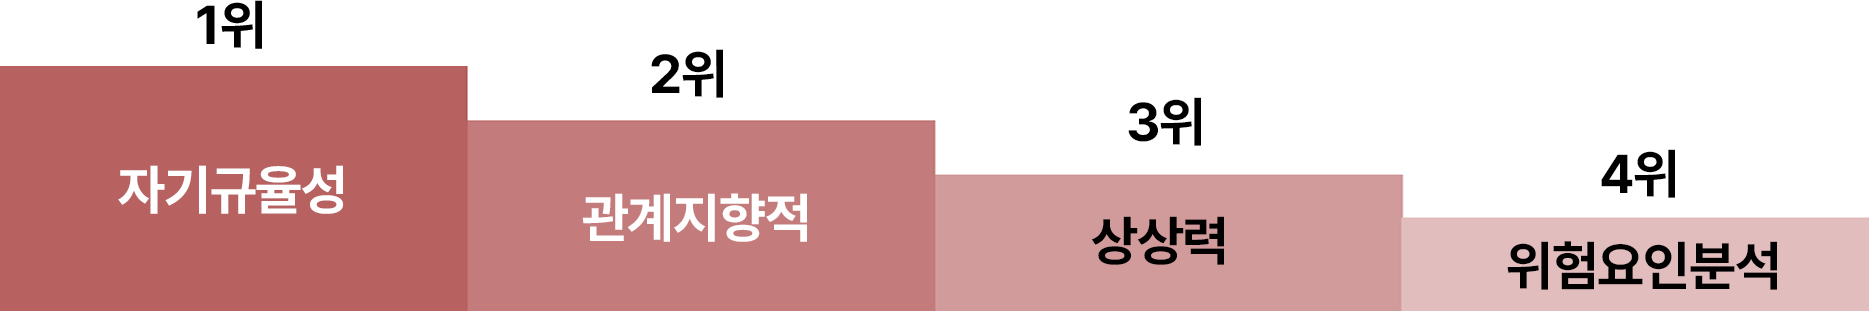
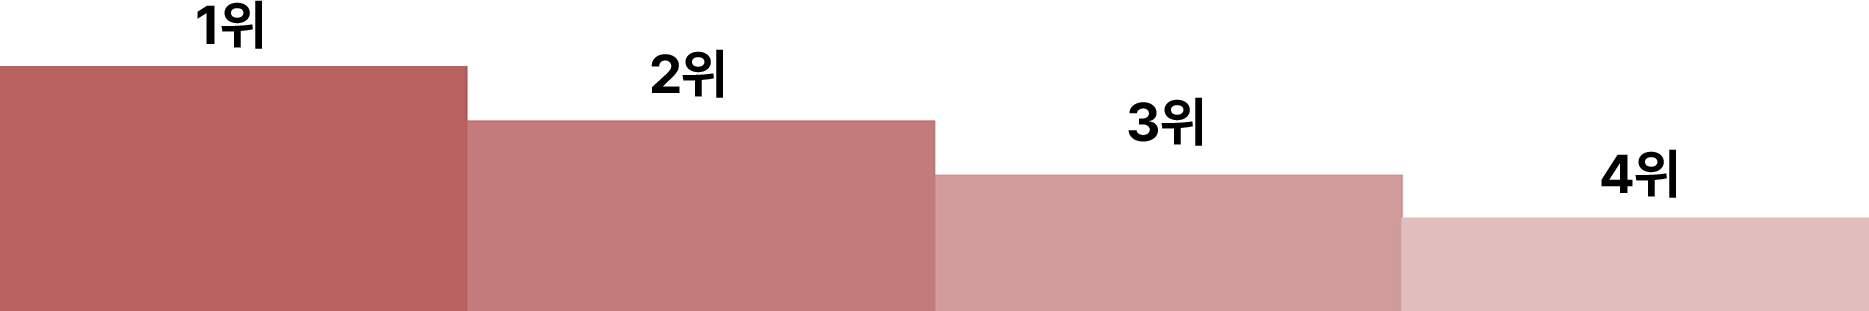
add text box

diff --git a/css/docs.css b/css/docs.css
@@ -134,13 +134,22 @@ table { border-collapse: collapse; border-spacing: 0; color:#000 }
 .pf-cont .pf-rank-tit { margin-left: 1cm; } 
 .pf-cont .pf-rank-tit p { font-size: 1.2rem; font-family: 'Pretendard'; } 
 .pf-cont .pf-rank-tit p:first-child { display: flex; align-items: flex-end; justify-content: space-between; margin-bottom: 0.2cm; } 
-.pf-cont .pf-rank-tit p:first-child span { width:2.22cm;border-bottom: 1px solid #111;margin-bottom: 0.08cm; } 
+/* 221127 text-align추가 */
+.pf-cont .pf-rank-tit p:first-child span { width:2.22cm;border-bottom: 1px solid #111;margin-bottom: 0.08cm;text-align: center; } 
 .pf-cont .pf-rank-ul { display:flex; align-items: center; gap:2.6cm; } 
-.pf-cont .pf-rank-ul li { list-style:none; width:0.88cm;height:1.28cm;} 
+/* 221127 li, div 수정 */
+.pf-cont .pf-rank-ul li { list-style:none; width:0.88cm;height:1.28cm;display:flex;align-items: center;flex-direction: row;} 
+.pf-cont .pf-rank-ul li div {text-align: center;width: 5rem;border: 0;font-size: 1.2rem;padding-left: 0.3cm;} 
 .pf-cont .pf-rank-ul li img { width: 100%;} 
 
 .pf-cont.quality { justify-content: center; } 
-.pf-cont .quality_rank { width:15.82cm; } 
+/*  221127 .quality_rank ~ */
+.pf-cont .quality_rank { width:15.82cm;height: 2.8cm; background: url(../img/quality_rank.png)no-repeat center/contain;display:flex;align-items: center;} 
+.pf-cont .quality_rank div { display:flex;align-items: center;justify-content: center;font-size: 1rem;font-weight: bold;} 
+.pf-cont .quality_rank div:nth-child(1) { width:4cm;height:2cm;margin-top: 0.6cm;color:#fff;} 
+.pf-cont .quality_rank div:nth-child(2) { width:4cm;height:1.5cm;margin-top: 1cm;color:#fff;} 
+.pf-cont .quality_rank div:nth-child(3) { width:4cm;height:1cm;margin-top: 1.5cm;} 
+.pf-cont .quality_rank div:nth-child(4) { width:4cm;height:0.6cm;margin-top: 1.8cm;} 
 .pf-cont .quality_rank img{ width:100%; } 
 
 
@@ -355,8 +364,12 @@ table.tbl04 td:first-child { font-weight:bold; font-family: 'Roboto', sans-serif
 #page_intro .intro_partner { position:absolute; top:21.13cm; left:1.69cm; display:flex; flex-direction: column; list-style-type:none; } 
 #page_intro .intro_partner li { display:flex; flex-direction:row;; font-size:1.6rem; font-weight:bold; padding-bottom:1.15cm; align-items: center; justify-content: space-between; } 
 #page_intro .intro_partner li .label { display:flex; flex-direction:row; color:#777; letter-spacing:-0.03rem; margin-right:0.185cm } 
+/* 221127 input추가*/
+#page_intro .intro_partner div.text-box { margin-left: 0.5cm;border: 0; font-size: 1.2rem;} 
 #page_intro .intro_partner li .label span { background:#fff; padding-right:0.185cm; color:#000; font-family: "Pretendard"; font-weight: 600; } 
 #page_intro .intro_partner .intro_line { width:1cm; height:0.12cm; background-color: #e7bdbd; } 
+/* 221127 .fist추가*/
+#page_intro .intro_partner .intro_line.first { margin-left: 0.5cm; } 
 #page_footer { width:100%; height:0.63cm; background:url("../img/footer-logo.png") no-repeat center 0; background-size:auto 0.63cm; font-size:0; position: absolute; bottom:0.65cm; left:0; } 
 
 canvas { height:100%; width:auto; max-height:100%; margin:0 auto } 

diff --git a/pages/docs/docs.html b/pages/docs/docs.html
@@ -34,8 +34,9 @@
             <li>기</li>
           </ul>
           <ui class="intro_partner">
-            <li><div class="label"><span>이름</span></div><div class="intro_line"></div></li>
-            <li><div class="label"><span>완료일</span></div><div class="intro_line"></div></li>
+            <!-- 221127 .fist, .text-box추가 -->
+            <li><div class="label"><span>이름</span></div><div class="intro_line first"></div><div class="text-box">test</div></li>
+            <li><div class="label"><span>완료일</span></div><div class="intro_line"></div><div class="text-box">test</div></li>
           </ui>
           <div class="intro_img"></div>
         </div>        
@@ -292,18 +293,22 @@
           </div>
           <div class="pf-cont">
             <div class="pf-rank-tit">
-              <p><span></span>님의</p>
+              <!-- 221127 input추가 -->
+              <p><span>test</span>님의</p>
               <p>근원적 동기 순위</p>
             </div>
             <ul class="pf-rank-ul">
               <li>
                 <img src="../../img/gold_medal.png" alt="금메달">
+                <div>test</div>
               </li>
               <li>
                 <img src="../../img/silver_medal.png" alt="은메달">
+                <div>test</div>
               </li>
               <li>
                 <img src="../../img/bronze_medal.png" alt="동메달">
+                <div>test</div>
               </li>
             </ul>
           </div>
@@ -368,7 +373,11 @@
           <div class="pf-tit secon"><span>특질(기질) 요소 순위</span></div>
           <div class="pf-cont quality">
             <div class="quality_rank">
-              <img src="../../img/quality_rank.png" alt="특질 요소 순위">
+              <!-- 221127 div 추가 -->
+              <div>자기규율성</div>
+              <div>관계지향적</div>
+              <div>상상력</div>
+              <div>위험요인분석</div>
             </div>
           </div>
         </li>
